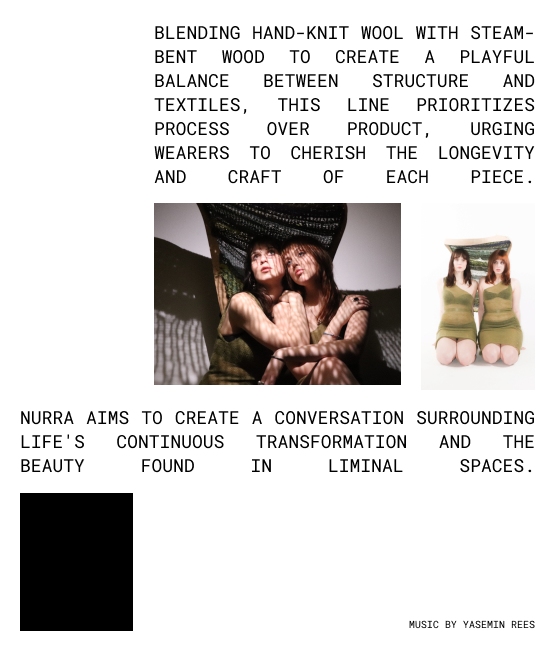
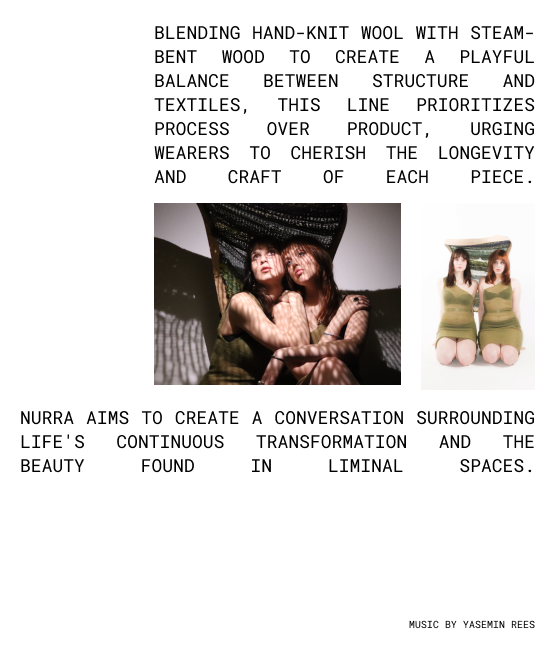
vids

Changed region(s): [[0.0306, 0.7373, 0.245, 0.9831]]

diff --git a/lines/src/App.jsx b/lines/src/App.jsx
@@ -45,6 +45,24 @@ import Shrouded_Right from '../../src/images/Shrouded_Right.png'
 
 import vid from '../src/assets/sample.mp4'
 
+const videoPositions = [
+  [-1.05, 0.35, 0.18, 0.21],
+  [0.43, 0.13, 0.18, 0.21],
+  [0.45, -0.38, 0.18, 0.21],
+  [0.65, -0.35, 0.18, 0.21],
+  [-1.05, 0.38, 0.18, 0.21],
+  [0.65, 0.12, 0.18, 0.21],
+  [0.95, 0.36, 0.38, 0.21], 
+  [-0.43, -0.25, 0.17, 0.45], 
+  [0.44, -0.36, 0.18, 0.21],
+  [-0.43, -0.36, 0.18, 0.21],
+  [0.64, -0.36, 0.18, 0.21],
+  [0.42, 0.35, 0.18, 0.21],
+  [0.91, 0.36, 0.38, 0.21], 
+  [0.43, -0.35, 0.18, 0.21],
+  [-0.43, -0.36, 0.18, 0.21]
+]
+
 const image_urls = []
 image_urls.push([Meliora_Aliturae_Left, Meliora_Aliturae_Right])
 image_urls.push([Twilight_Left, Twilight_Right])
@@ -66,7 +84,7 @@ const nLines = 15 // number of lines
 const distBetweenPairs = 20
 const endPoint = nLines * (distBetweenPairs-1)
 
-const Pair = ({position, opacity, forwardHovered, backwardHovered, stayHovered, image}) => {
+const Pair = ({id, position, opacity, forwardHovered, backwardHovered, stayHovered, image}) => {
   const {viewport} = useThree()
   const paneHeight = viewport.height * 0.58
   const paneWidth = paneHeight * 0.85
@@ -80,35 +98,37 @@ const Pair = ({position, opacity, forwardHovered, backwardHovered, stayHovered, 
   const refNewRight = useRef()
   const vidRef = useRef();
 
+  const speed = 0.7
+
   useFrame(() => {
     if (forwardHovered) {
-      refNewRight.current.position.z += 0.2
-      refMeshRight.current.position.z += 0.2
-      refPaneRight.current.position.z += 0.2
+      refNewRight.current.position.z += speed
+      refMeshRight.current.position.z += speed
+      refPaneRight.current.position.z += speed
       refNewRight.current.material.opacity = 1 - (Math.abs(refNewRight.current.position.z)/40)
       refMeshRight.current.material.opacity = 1 - (Math.abs(refMeshRight.current.position.z)/40)
       refPaneRight.current.material.opacity = 1 - (Math.abs(refPaneRight.current.position.z)/40)
       vidRef.current.material.opacity = 1 - (Math.abs(vidRef.current.position.z)/40)
-      refNewLeft.current.position.z += 0.2
-      refMeshLeft.current.position.z += 0.2
-      refPaneLeft.current.position.z += 0.2
-      vidRef.current.position.z += 0.2
+      refNewLeft.current.position.z += speed
+      refMeshLeft.current.position.z += speed
+      refPaneLeft.current.position.z += speed
+      vidRef.current.position.z += speed
       refNewLeft.current.material.opacity = 1 - (Math.abs(refNewRight.current.position.z)/40)
       refMeshLeft.current.material.opacity = 1 - (Math.abs(refMeshRight.current.position.z)/40)
       refPaneLeft.current.material.opacity = 1 - (Math.abs(refPaneRight.current.position.z)/40)
     }
     else if (backwardHovered) {
-      refNewRight.current.position.z -= 0.2
-      refMeshRight.current.position.z -= 0.2
-      refPaneRight.current.position.z -= 0.2
-      vidRef.current.position.z -= 0.2
+      refNewRight.current.position.z -= speed
+      refMeshRight.current.position.z -= speed
+      refPaneRight.current.position.z -= speed
+      vidRef.current.position.z -= speed
       refNewRight.current.material.opacity = 1 - (Math.abs(refNewRight.current.position.z)/40)
       refMeshRight.current.material.opacity = 1 - (Math.abs(refMeshRight.current.position.z)/40)
       refPaneRight.current.material.opacity = 1 - (Math.abs(refPaneRight.current.position.z)/40)
       vidRef.current.material.opacity = 1 - (Math.abs(vidRef.current.position.z)/40)
-      refNewLeft.current.position.z -= 0.2
-      refMeshLeft.current.position.z -= 0.2
-      refPaneLeft.current.position.z -= 0.2
+      refNewLeft.current.position.z -= speed
+      refMeshLeft.current.position.z -= speed
+      refPaneLeft.current.position.z -= speed
       refNewLeft.current.material.opacity = 1 - (Math.abs(refNewRight.current.position.z)/40)
       refMeshLeft.current.material.opacity = 1 - (Math.abs(refMeshRight.current.position.z)/40)
       refPaneLeft.current.material.opacity = 1 - (Math.abs(refPaneRight.current.position.z)/40)
@@ -128,6 +148,7 @@ const Pair = ({position, opacity, forwardHovered, backwardHovered, stayHovered, 
       refPaneLeft.current.position.z = -280
       vidRef.current.material.opacity = 0
       vidRef.current.position.z = -280
+      vidRef.current.position.z = -280
     }
     if (refMeshLeft.current.position.z < -280) {
       refNewRight.current.position.z = 20
@@ -136,6 +157,7 @@ const Pair = ({position, opacity, forwardHovered, backwardHovered, stayHovered, 
       refNewLeft.current.position.z = 20
       refMeshLeft.current.position.z = 20
       refPaneLeft.current.position.z = 20
+      vidRef.current.position.z = 20
     }
     if (refMeshLeft.current.position.z < -40){
       refPaneRight.current.visible = false
@@ -231,8 +253,8 @@ const Pair = ({position, opacity, forwardHovered, backwardHovered, stayHovered, 
           transparent={true} 
         />
       </mesh>
-      <mesh scale={1} ref={vidRef} position={[position[0] + viewport.width / 4, position[1], position[2]]} opacity={opacity}>
-        <planeGeometry />
+      <mesh scale={1} ref={vidRef} position={[videoPositions[id][0] * paneHeight, videoPositions[id][1] * paneHeight, position[2] + 0.1]} opacity={opacity}>
+        <planeGeometry args={[videoPositions[id][2] * paneHeight, videoPositions[id][3] * paneHeight]}/>
         {/* <Suspense fallback={<FallbackMaterial url="10.jpg" />}> */}
         <meshBasicMaterial map={useVideoTexture(vid)} toneMapped={false} />
         {/* </Suspense> */}
@@ -388,6 +410,7 @@ export function LinesPage() {
           backwardHovered = {isBackwardHovered}
           stayHovered = {isStayHovered}
           key={i}
+          id={i}
           image = {image_urls[i]}
         />
       )
